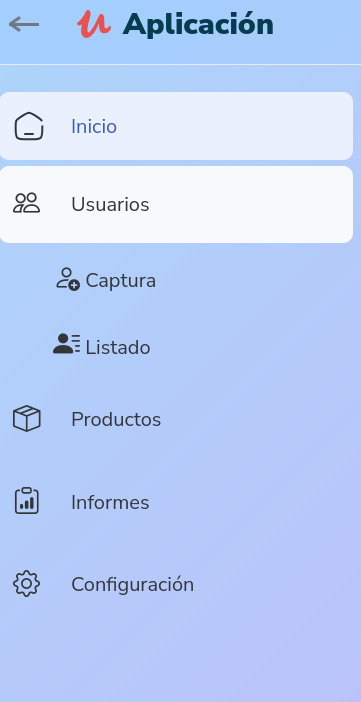
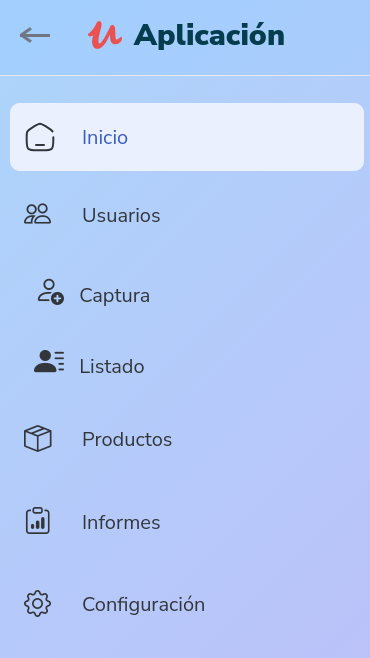
Add al Readme de capturas y correcion en mensaje de password

diff --git a/js/utileria.js b/js/utileria.js
@@ -56,7 +56,7 @@ function validarPassword() {
     //Valida que tenga los caracteres admitidos
   } else if (!regex.test(Vpass)) {
     error.textContent =
-      "El password debe contener Mayusculas, Minusculas, numero y algun caracter especial.";
+      "El password debe contener mayusculas, minusculas, algun numero y algun caracter especial.";
     return false;
   }
   error.textContent = "";

diff --git a/README.md b/README.md
@@ -198,7 +198,42 @@ Se agregó un desplegable del usuario, se mostraran capturas e informes.
 
 ---
 
-# 7. Modal de información del perfil
+# 7. Seccion de listado
+
+aqui se mostrarà el listado de los usuarios
+
+![Listado](img/Capturas/slider-listado-Usuarios.png)
+
+---
+
+# 8. Seccion Productos
+
+aqui se mostrarà el listado de los podructos
+
+
+![productos](img/Capturas/SLIDER-PRODUCTOS.png)
+
+---
+
+# 9. Seccion informes
+
+aqui se mostrarà el listado de los informes
+
+
+![Informes](img/Capturas/slider-informes.png)
+
+---
+
+# 10. Seccion Configuraciòn
+
+aqui se mostrarà la confiuracion que se podrà realizar en el sistema
+
+
+![Configuracion](img/Capturas/seccion-configuracion.png)
+
+---
+
+# 11. Modal de información del perfil
 
 Se implementó un modal para mostrar información adicional del usuario.
 